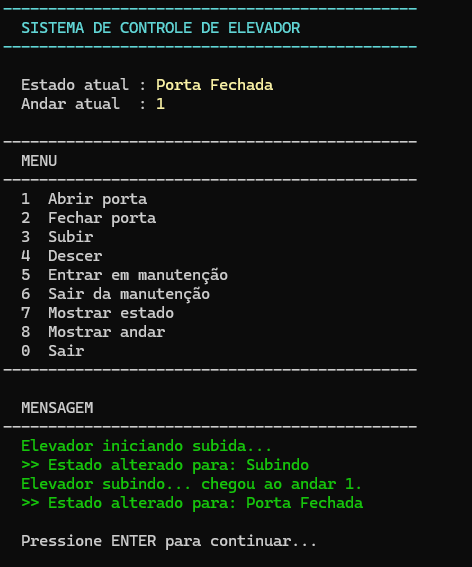
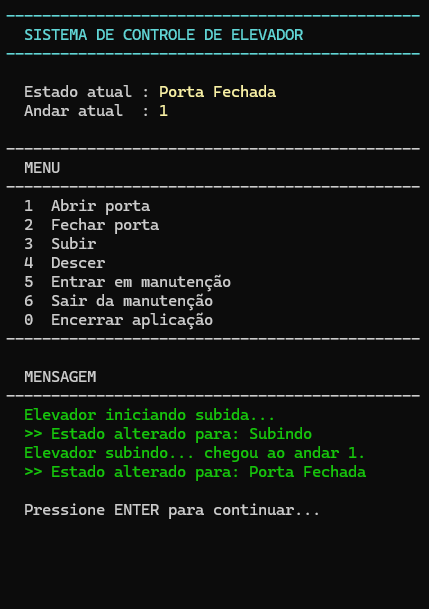
refactor: improve console UI and update documentation assets

diff --git a/ElevadorState/Program.cs b/ElevadorState/Program.cs
@@ -37,19 +37,13 @@ while (continuar)
         case "6":
             (mensagem, tipo) = Executar(elevador.SairManutencao);
             break;
-        case "7":
-            (mensagem, tipo) = Executar(elevador.MostrarEstado);
-            break;
-        case "8":
-            (mensagem, tipo) = Executar(elevador.MostrarAndar);
-            break;
         case "0":
             continuar = false;
             mensagem = "Encerrando o sistema do elevador...";
             tipo = TipoMensagem.Neutra;
             break;
         default:
-            mensagem = "Opção inválida. Digite um número entre 0 e 8.";
+            mensagem = "Opção inválida. Digite um número entre 0 e 6.";
             tipo = TipoMensagem.Invalida;
             break;
     }
@@ -66,8 +60,8 @@ while (continuar)
 // ---------------------------------------------------------------------------
 // A partir daqui: apenas apresentação (UI de console). Nenhum método abaixo
 // decide comportamento do elevador — eles só chamam a API pública já existente
-// de Elevador (AbrirPorta, Subir, MostrarEstado...) e formatam o resultado.
-// A lógica do padrão State continua inteiramente dentro de Elevador/States.
+// de Elevador (AbrirPorta, Subir...) e formatam o resultado. A lógica do
+// padrão State continua inteiramente dentro de Elevador/States.
 // ---------------------------------------------------------------------------
 
 const string Separador = "----------------------------------------------";
@@ -114,6 +108,8 @@ static void EscreverTitulo()
 
 static void EscreverInfoElevador(Elevador elevador)
 {
+    // Estado e andar ficam sempre visíveis no topo — por isso o menu não
+    // precisa mais de opções separadas para consultá-los.
     Console.Write("  Estado atual : ");
     Console.ForegroundColor = ConsoleColor.Yellow;
     Console.WriteLine(elevador.EstadoAtual.Nome);
@@ -136,9 +132,7 @@ static void EscreverMenu()
     Console.WriteLine("  4  Descer");
     Console.WriteLine("  5  Entrar em manutenção");
     Console.WriteLine("  6  Sair da manutenção");
-    Console.WriteLine("  7  Mostrar estado");
-    Console.WriteLine("  8  Mostrar andar");
-    Console.WriteLine("  0  Sair");
+    Console.WriteLine("  0  Encerrar aplicação");
     Console.WriteLine(Separador);
 }
 
@@ -180,15 +174,8 @@ static (string mensagem, TipoMensagem tipo) Executar(Action operacao)
     return (texto, ClassificarMensagem(texto));
 }
 
-static TipoMensagem ClassificarMensagem(string texto)
-{
-    if (texto.StartsWith("Estado atual:") || texto.StartsWith("Andar atual:"))
-    {
-        return TipoMensagem.Neutra;
-    }
-
-    return texto.Contains(">> Estado alterado para:") ? TipoMensagem.Sucesso : TipoMensagem.Erro;
-}
+static TipoMensagem ClassificarMensagem(string texto) =>
+    texto.Contains(">> Estado alterado para:") ? TipoMensagem.Sucesso : TipoMensagem.Erro;
 
 enum TipoMensagem
 {

diff --git a/ElevadorState/Elevator/Elevador.cs b/ElevadorState/Elevator/Elevador.cs
@@ -62,8 +62,4 @@ public sealed class Elevador
     public void EntrarManutencao() => Console.WriteLine(EstadoAtual.EntrarManutencao(this));
 
     public void SairManutencao() => Console.WriteLine(EstadoAtual.SairManutencao(this));
-
-    public void MostrarEstado() => Console.WriteLine($"Estado atual: {EstadoAtual.Nome}");
-
-    public void MostrarAndar() => Console.WriteLine($"Andar atual: {AndarAtual}");
 }

diff --git a/ElevadorState/obj/Debug/net8.0/ElevadorState.AssemblyInfo.cs b/ElevadorState/obj/Debug/net8.0/ElevadorState.AssemblyInfo.cs
@@ -14,7 +14,7 @@ using System.Reflection;
 [assembly: System.Reflection.AssemblyCompanyAttribute("ElevadorState")]
 [assembly: System.Reflection.AssemblyConfigurationAttribute("Debug")]
 [assembly: System.Reflection.AssemblyFileVersionAttribute("1.0.0.0")]
-[assembly: System.Reflection.AssemblyInformationalVersionAttribute("1.0.0+6f798021b91fa62e887c48f6f44755065c47c439")]
+[assembly: System.Reflection.AssemblyInformationalVersionAttribute("1.0.0+4faf83b73ffd75df6cac1b34592d76f51dcb7d68")]
 [assembly: System.Reflection.AssemblyProductAttribute("ElevadorState")]
 [assembly: System.Reflection.AssemblyTitleAttribute("ElevadorState")]
 [assembly: System.Reflection.AssemblyVersionAttribute("1.0.0.0")]